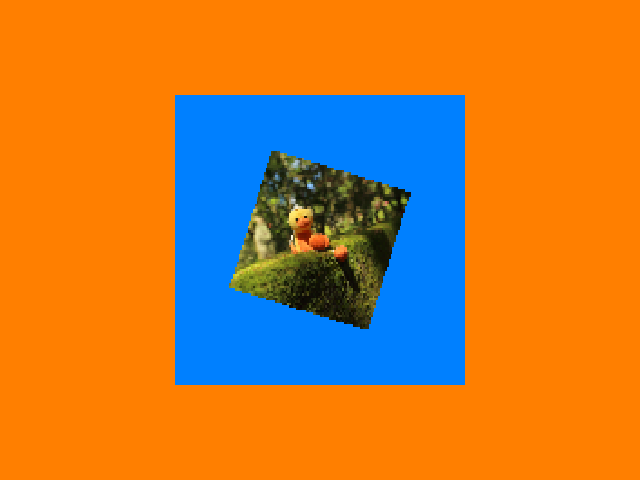
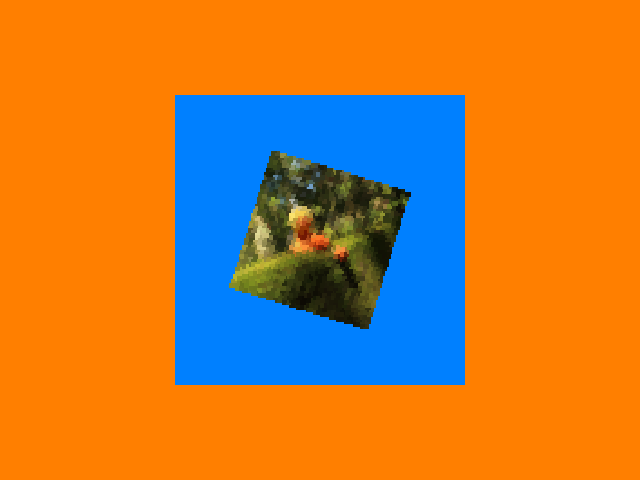
Updated template image, avoid aliasing

Changed region(s): [[0.375, 0.3125, 0.6562, 0.6562], [0.4688, 0.625, 0.5, 0.6562]]

diff --git a/tests/gl-320-fbo-integer.cpp b/tests/gl-320-fbo-integer.cpp
@@ -171,10 +171,10 @@ private:
 		GLint MaxDepthTextureSamples(0);
 		GLint MaxIntegerSamples(0);
 
-		glGetIntegerv(GL_MAX_SAMPLE_MASK_WORDS, &MaxSampleMaskWords); 
-		glGetIntegerv(GL_MAX_COLOR_TEXTURE_SAMPLES, &MaxColorTextureSamples); 
-		glGetIntegerv(GL_MAX_DEPTH_TEXTURE_SAMPLES, &MaxDepthTextureSamples); 
-		glGetIntegerv(GL_MAX_INTEGER_SAMPLES, &MaxIntegerSamples); 
+		glGetIntegerv(GL_MAX_SAMPLE_MASK_WORDS, &MaxSampleMaskWords);
+		glGetIntegerv(GL_MAX_COLOR_TEXTURE_SAMPLES, &MaxColorTextureSamples);
+		glGetIntegerv(GL_MAX_DEPTH_TEXTURE_SAMPLES, &MaxDepthTextureSamples);
+		glGetIntegerv(GL_MAX_INTEGER_SAMPLES, &MaxIntegerSamples);
 
 		gli::texture2d Texture(gli::load_dds((getDataDirectory() + TEXTURE_DIFFUSE).c_str()));
 		gli::gl GL(gli::gl::PROFILE_GL32);
@@ -182,7 +182,7 @@ private:
 		glGenTextures(texture::MAX, &TextureName[0]);
 		glActiveTexture(GL_TEXTURE0);
 		glBindTexture(GL_TEXTURE_2D, TextureName[texture::DIFFUSE]);
-		glTexParameteri(GL_TEXTURE_2D, GL_TEXTURE_BASE_LEVEL, 0);
+		glTexParameteri(GL_TEXTURE_2D, GL_TEXTURE_BASE_LEVEL, 3);
 		glTexParameteri(GL_TEXTURE_2D, GL_TEXTURE_MAX_LEVEL, 0);
 		glTexParameteri(GL_TEXTURE_2D, GL_TEXTURE_MIN_FILTER, GL_NEAREST);
 		glTexParameteri(GL_TEXTURE_2D, GL_TEXTURE_MAG_FILTER, GL_NEAREST);

diff --git a/tests/gl-320-fbo-integer-blit.cpp b/tests/gl-320-fbo-integer-blit.cpp
@@ -189,7 +189,7 @@ private:
 		glGenTextures(texture::MAX, &TextureName[0]);
 		glActiveTexture(GL_TEXTURE0);
 		glBindTexture(GL_TEXTURE_2D, TextureName[texture::DIFFUSE]);
-		glTexParameteri(GL_TEXTURE_2D, GL_TEXTURE_BASE_LEVEL, 0);
+		glTexParameteri(GL_TEXTURE_2D, GL_TEXTURE_BASE_LEVEL, 3);
 		glTexParameteri(GL_TEXTURE_2D, GL_TEXTURE_MAX_LEVEL, 0);
 		glTexParameteri(GL_TEXTURE_2D, GL_TEXTURE_MIN_FILTER, GL_NEAREST);
 		glTexParameteri(GL_TEXTURE_2D, GL_TEXTURE_MAG_FILTER, GL_NEAREST);

diff --git a/tests/gl-320-texture-3d.cpp b/tests/gl-320-texture-3d.cpp
@@ -127,8 +127,8 @@ private:
 		glTexParameteri(GL_TEXTURE_3D, GL_TEXTURE_WRAP_R, GL_CLAMP_TO_EDGE);
 
 		glTexImage3D(GL_TEXTURE_3D,
-			0, 
-			GL_R32F, 
+			0,
+			GL_R32F,
 			GLsizei(Size),
 			GLsizei(Size),
 			GLsizei(Size),
